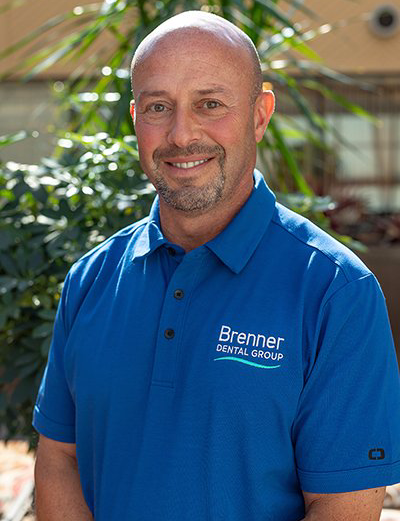
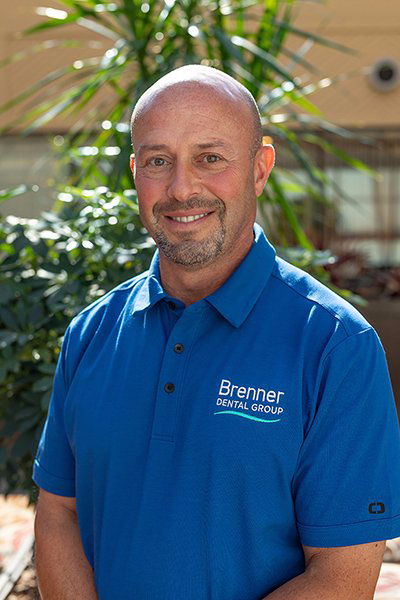
Photo Upateds Done

diff --git a/find_images.js b/find_images.js
@@ -1,0 +1,17 @@
+const https = require('https');
+https.get('https://www.brennerdentalgroup.com/', {
+  headers: {
+    'User-Agent': 'Mozilla/5.0 (Windows NT 10.0; Win64; x64) AppleWebKit/537.36 (KHTML, like Gecko) Chrome/120.0.0.0 Safari/537.36'
+  }
+}, (res) => {
+  console.log('Status Code:', res.statusCode);
+  let html = '';
+  res.on('data', chunk => html += chunk);
+  res.on('end', () => {
+    const regex = /https?:\/\/[^\s"']+\.(?:jpg|png|webp|gif)/gi;
+    const matches = html.match(regex) || [];
+    console.log('Unique images:', Array.from(new Set(matches)));
+  });
+}).on('error', (err) => {
+  console.error('Error:', err.message);
+});

diff --git a/src/app/restorative-dentistry/dental-implants/page.tsx b/src/app/restorative-dentistry/dental-implants/page.tsx
@@ -7,7 +7,7 @@ export default function DentalImplantsPage() {
     intro: "Restore the complete look, strength, and functionality of missing teeth. Dental implants are biocompatible titanium posts that act as permanent anchors for premium crown restorations, protecting your jawbone and adjacent teeth.",
     duration: "3–6 months",
     visits: "3–4 visits",
-    image: "/images/dentist_portrait_1779858109259.webp",
+    image: "/images/cosmetic_smile_1779858128482.webp",
     whatIs: {
       title: "What is a Dental Implant?",
       text: "A dental implant is a titanium post surgically positioned into the jawbone beneath the gumline. Once integrated with the bone (a process called osseointegration), it serves as a stable mount for a custom-crafted replacement crown. This permanent solution prevents bone loss and looks, feels, and functions exactly like a natural tooth.",

diff --git a/src/components/sections/Services.tsx b/src/components/sections/Services.tsx
@@ -21,7 +21,7 @@ const services = [
     icon: CircleDot,
     title: "Dental Implants",
     desc: "Permanent, natural-looking tooth replacements that restore function and confidence.",
-    image: "/images/dentist_portrait_1779858109259.webp",
+    image: "/images/cosmetic_smile_1779858128482.webp",
     tag: "Restorative",
     duration: "3–6 months",
     benefits: ["Permanent solution", "Preserves bone", "Like real teeth"],

diff --git a/src/components/sections/Technology.tsx b/src/components/sections/Technology.tsx
@@ -70,7 +70,7 @@ const technologies = [
       "Patient-friendly walkthroughs",
       "Honest, transparent diagnoses",
     ],
-    image: "/images/dentist_portrait_1779858109259.webp",
+    image: "/images/about_storytelling_1779858491119.webp",
   },
   {
     icon: ShieldCheck,